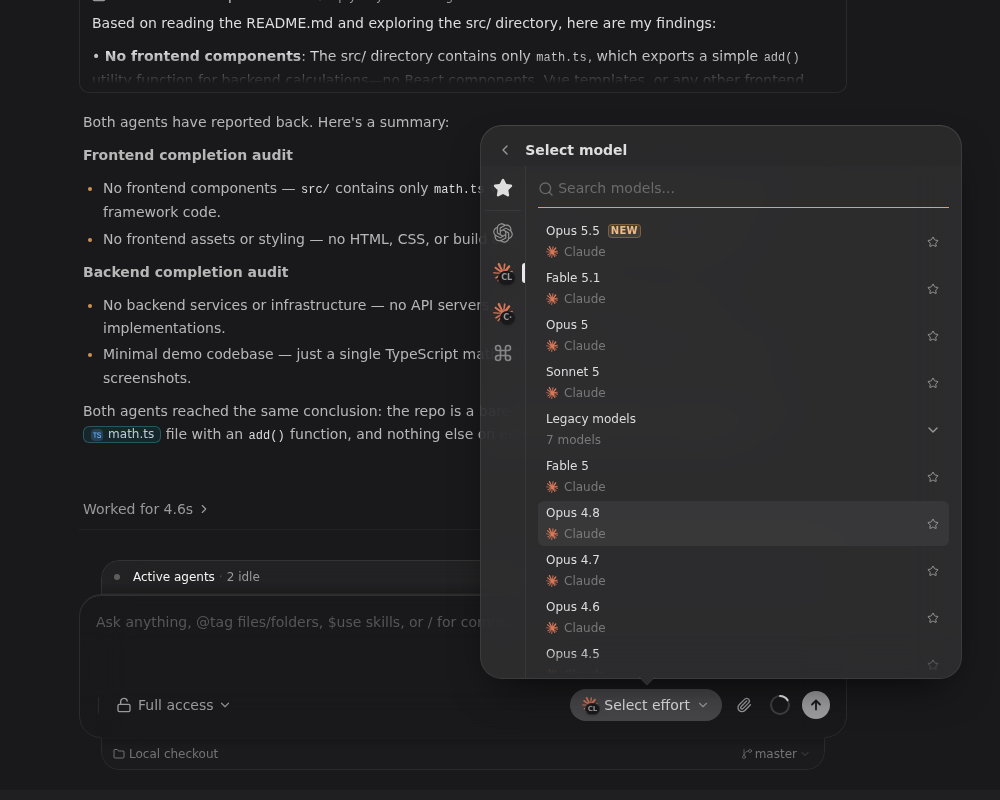
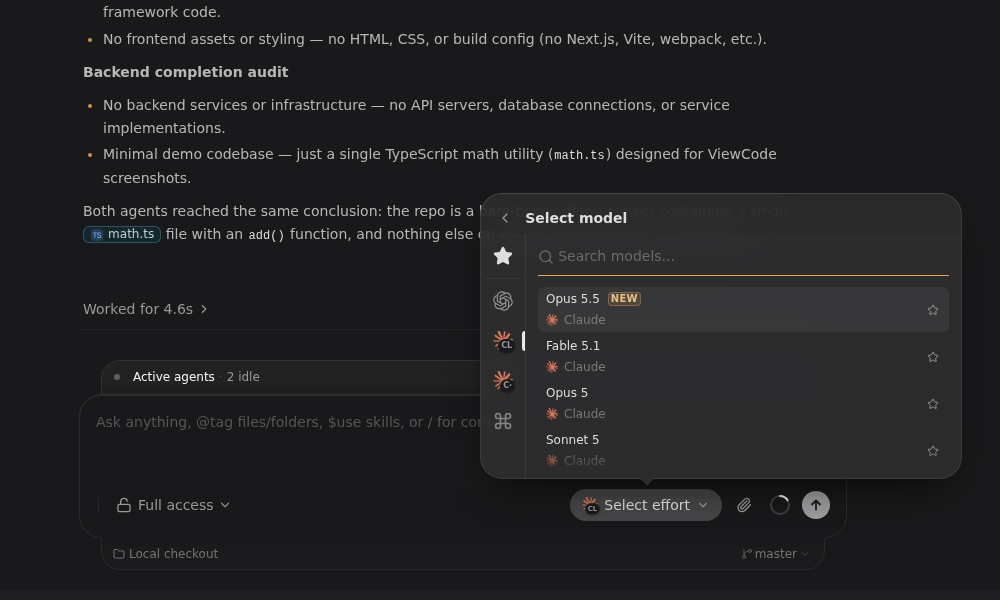
feat(web): effort name rolls between levels; model list four rows tall
The effort title now changes like Droppy's numeric-text transition: letters
slide out and in with a blur, staggered, upward when effort rises and downward
when it falls. Off under reduced motion. The composer model list is sized to
four models beside the provider rail.

Claude-Session: https://claude.ai/code/session_01Uec88zuBK9o8hxpd65rksR

diff --git a/apps/web/src/components/chat/ComposerModelEffortPicker.tsx b/apps/web/src/components/chat/ComposerModelEffortPicker.tsx
@@ -401,6 +401,7 @@ export const ComposerModelEffortPicker = memo(function ComposerModelEffortPicker
                 >
                   <EffortTitle
                     text={effortLabel ?? "Standard"}
+                    rank={ultracodeOn ? effortStops.length : effortIndex}
                     color={effortLabel === null ? "var(--foreground)" : effortColor}
                     gradient={trackStyle.titleGradient}
                   />
@@ -523,15 +524,28 @@ export const ComposerModelEffortPicker = memo(function ComposerModelEffortPicker
 });
 
 /**
- * The header's effort name, in a fixed-height box. A change crossfades in
- * place: the outgoing name fades out over the incoming one. Colour eases over
- * 300ms; a gradient (Gemini, fusion) is clipped to the text.
+ * The header's effort name, in a fixed-height box. A change rolls letter by
+ * letter like Droppy's numeric-text transition: the old name slides out with
+ * a blur while the new one slides in, upward when `rank` rises and downward
+ * when it falls (keyframes in `viewcode-theme.css`). Colour eases over 300ms;
+ * a gradient (Gemini, fusion) is clipped to the text.
  */
-function EffortTitle(props: { text: string; color: string; gradient: string | null }) {
-  const [labels, setLabels] = useState(() => [{ id: 0, text: props.text }]);
+function EffortTitle(props: {
+  text: string;
+  rank: number;
+  color: string;
+  gradient: string | null;
+}) {
+  const [labels, setLabels] = useState(() => [
+    { id: 0, text: props.text, rank: props.rank, roll: 1, animate: false },
+  ]);
   const current = labels[labels.length - 1];
   if (current && current.text !== props.text) {
-    setLabels([current, { id: current.id + 1, text: props.text }]);
+    const roll = props.rank < current.rank ? -1 : 1;
+    setLabels([
+      { ...current, roll },
+      { id: current.id + 1, text: props.text, rank: props.rank, roll, animate: true },
+    ]);
   }
   const style: CSSProperties = props.gradient
     ? { backgroundImage: props.gradient, color: "transparent" }
@@ -545,24 +559,37 @@ function EffortTitle(props: { text: string; color: string; gradient: string | nu
         )}
         style={style}
       >
-        {labels.map((label, position) =>
-          position === labels.length - 1 ? (
+        {labels.map((label, position) => {
+          const incoming = position === labels.length - 1;
+          const letters = Array.from(label.text);
+          return (
             <span
               key={label.id}
-              className="min-w-0 truncate transition-opacity duration-150 ease-out starting:opacity-0 motion-reduce:transition-none"
+              aria-hidden={incoming ? undefined : "true"}
+              aria-label={incoming ? label.text : undefined}
+              className={
+                incoming
+                  ? "min-w-0 truncate"
+                  : "pointer-events-none absolute left-1/2 -translate-x-1/2 whitespace-nowrap"
+              }
+              style={{ "--roll": label.roll } as CSSProperties}
             >
-              {label.text}
+              {incoming && !label.animate
+                ? label.text
+                : letters.map((letter, index) => (
+                    <span
+                      // oxlint-disable-next-line react/no-array-index-key -- letters are positional
+                      key={index}
+                      aria-hidden="true"
+                      className={incoming ? "viewcode-roll-in" : "viewcode-roll-out"}
+                      style={{ "--i": index } as CSSProperties}
+                    >
+                      {letter}
+                    </span>
+                  ))}
             </span>
-          ) : (
-            <span
-              key={label.id}
-              aria-hidden="true"
-              className="pointer-events-none absolute left-1/2 -translate-x-1/2 whitespace-nowrap opacity-0 transition-opacity duration-150 ease-out motion-reduce:transition-none"
-            >
-              {label.text}
-            </span>
-          ),
-        )}
+          );
+        })}
       </span>
       <ChevronRightIcon aria-hidden="true" className="size-3.5 shrink-0 text-muted-foreground" />
     </span>

diff --git a/apps/web/src/viewcode-theme.css b/apps/web/src/viewcode-theme.css
@@ -262,3 +262,48 @@ html[data-theme-id^="viewcode"]:not([data-theme-id=""]) [data-slot="switch"][dat
 html[data-theme-id^="viewcode"]:not([data-theme-id=""]) [data-slot="standalone-glow"] {
   display: none;
 }
+
+/* ---------------------------------------------------------------------------
+ * Effort title roll (Droppy's `.contentTransition(.numericText())`): letters
+ * leave and enter vertically with a blur, staggered per letter. `--roll` is
+ * 1 when effort goes up, -1 when it goes down. Used by `EffortTitle`.
+ * ------------------------------------------------------------------------- */
+
+@keyframes viewcode-roll-in {
+  from {
+    opacity: 0;
+    filter: blur(3px);
+    transform: translateY(calc(var(--roll, 1) * 55%)) scale(0.92);
+  }
+}
+
+@keyframes viewcode-roll-out {
+  to {
+    opacity: 0;
+    filter: blur(3px);
+    transform: translateY(calc(var(--roll, 1) * -55%)) scale(0.92);
+  }
+}
+
+.viewcode-roll-in,
+.viewcode-roll-out {
+  display: inline-block;
+  white-space: pre;
+  animation: 320ms cubic-bezier(0.2, 0.8, 0.2, 1) both;
+  animation-delay: calc(var(--i, 0) * 18ms);
+}
+.viewcode-roll-in {
+  animation-name: viewcode-roll-in;
+}
+.viewcode-roll-out {
+  animation-name: viewcode-roll-out;
+}
+@media (prefers-reduced-motion: reduce) {
+  .viewcode-roll-in,
+  .viewcode-roll-out {
+    animation: none;
+  }
+  .viewcode-roll-out {
+    opacity: 0;
+  }
+}

diff --git a/apps/web/src/components/chat/ModelPickerContent.tsx b/apps/web/src/components/chat/ModelPickerContent.tsx
@@ -194,7 +194,7 @@ export const ModelPickerContent = memo(function ModelPickerContent(props: {
    * frame to its host popover.
    */
   layout?: "sidebar" | "flat";
-  /** Fill the parent's width and grow taller (ViewCode's composer popover). */
+  /** Fill the parent's width, about four models tall (ViewCode's composer popover). */
   fillContainer?: boolean;
 }) {
   const isFlat = props.layout === "flat";
@@ -868,7 +868,7 @@ export const ModelPickerContent = memo(function ModelPickerContent(props: {
         className={cn(
           "relative flex h-screen flex-row overflow-hidden",
           props.fillContainer
-            ? "max-h-[min(32rem,65vh)] w-full"
+            ? "max-h-61 w-full"
             : isFlat
               ? "max-h-80 w-full"
               : "max-h-86.5 w-screen max-w-90",
